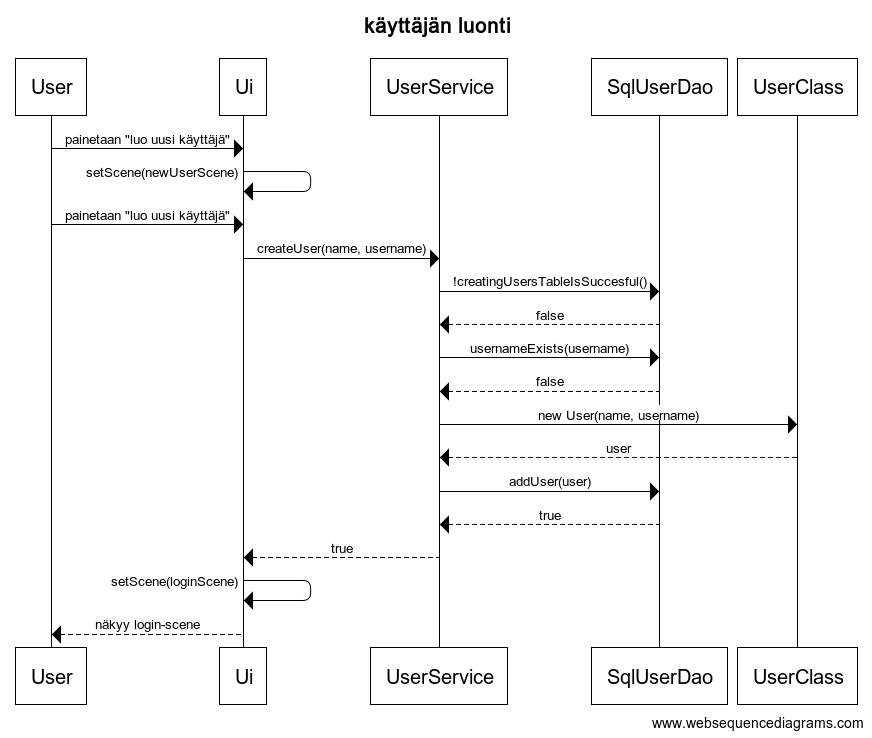
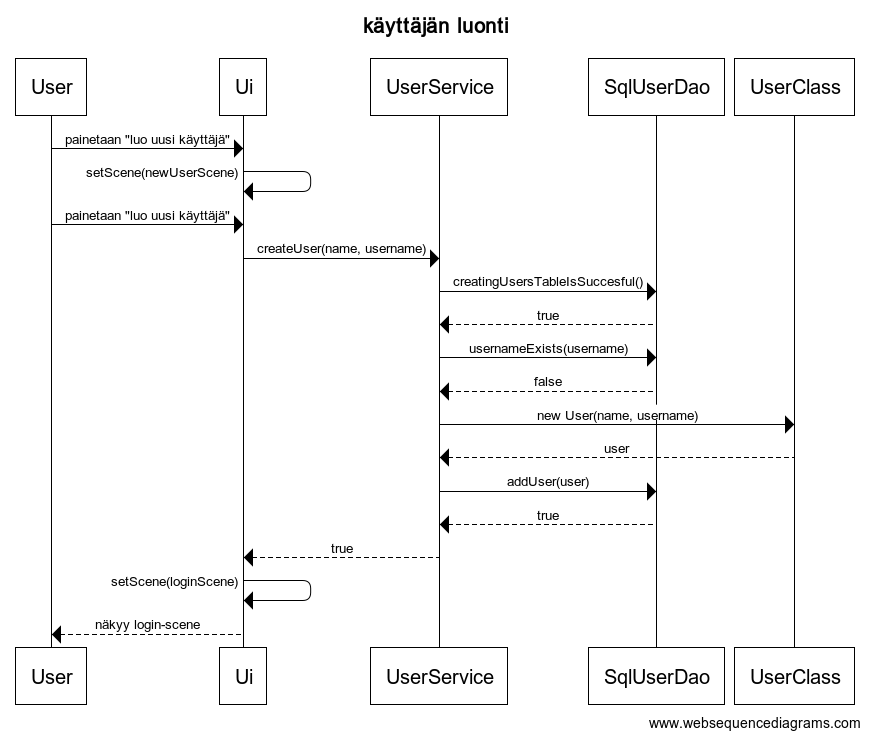
Refaktooritu koodia ja täydennetty dokumentaatiota

diff --git a/Opintorekisteri/src/main/java/opintorekisteri/ui/StudyRegisterUi.java b/Opintorekisteri/src/main/java/opintorekisteri/ui/StudyRegisterUi.java
@@ -475,30 +475,6 @@ public class StudyRegisterUi extends Application{
        });
        
        addCourseButton.setOnAction((ActionEvent e) -> {
-//           String courseName = courseNameInput.getText();
-//           String courseCredits = courseCreditsInput.getText();
-//           boolean added = false;
-//           try {
-//               added = courseService.createCourse(courseName, courseCredits, userService.getLoggedUser());
-//           } catch (SQLException ex) {
-//               Logger.getLogger(StudyRegisterUi.class.getName()).log(Level.SEVERE, null, ex);
-//           }
-//           if (added) {
-//               try {
-//                    refreshData(userService.getLoggedUser());
-//               } catch (SQLException ex) {
-//                   Logger.getLogger(StudyRegisterUi.class.getName()).log(Level.SEVERE, null, ex);
-//               }
-//               courseNameInput.setText("");
-//               courseCreditsInput.setText("");
-//           }
-//           else {
-//               Alert alert = new Alert(AlertType.ERROR);
-//               alert.setTitle("Virhe");
-//               alert.setHeaderText("Kurssin lisäämisessä tapahtui virhe!");
-//               alert.setContentText("Mahdollisia virhetilanteita:\nKurssi on jo olemassa\ntila täynnä\nvirhe syötteessä");
-//               alert.showAndWait();
-//           }
           stage.setScene(courseScene);  
        });
        

diff --git a/Opintorekisteri/src/main/java/opintorekisteri/domain/UserService.java b/Opintorekisteri/src/main/java/opintorekisteri/domain/UserService.java
@@ -28,6 +28,17 @@ public class UserService {
     
     
     /**
+     * Konstruktori jolla on argumenttina Dao-luokat.
+     * @param userDao SqlUserDao-luokan olio
+     * @param courseDao SqlCourseDao-luokan olio
+     */
+    public UserService(SqlUserDao userDao, SqlCourseDao courseDao) {
+        this.userDao = userDao;
+        this.courseDao = courseDao;
+    }
+    
+    
+    /**
      * Funktio joka luo uuden käyttäjän sovellukseen.
      * @param username Käyttäjän käyttäjätunnus
      * @param name Käyttäjän oikea nimi
@@ -36,14 +47,14 @@ public class UserService {
      */
     public boolean createUser(String name, String username) throws SQLException {
         userDao = new SqlUserDao();
-        if (!userDao.creatingUsersTableIsSuccesful()) {
-            return false;
+        if (userDao.creatingUsersTableIsSuccesful()) {
+            if (userDao.usernameExists(username)) {
+                return false;
+            }
+            User user = new User(name, username);
+            return userDao.addUser(user);
         }
-        if (userDao.usernameExists(username)) {
-            return false;
-        }               
-        User user = new User(name, username);
-        return userDao.addUser(user);
+        return false;
     }
     
     

diff --git a/Opintorekisteri/src/main/java/opintorekisteri/domain/CourseService.java b/Opintorekisteri/src/main/java/opintorekisteri/domain/CourseService.java
@@ -137,7 +137,7 @@ public class CourseService {
     
     /**
      * Funktio joka poistaa kurssin nimen perusteella.Nimen perusteella poisto on tässä yhteydessä turvallista, koska nimi on yksilöivä.Ei saa siis tällä hetkellä olla kahta samannimistä kurssia.
-     * @param course Kurssi joka poistetaan.
+     * @param course Kurssi joka poistetaan
      * @return True jos poisto onnistui ja muuten false
      * @throws SQLException Poikkeuskäsittely
      */

diff --git a/dokumentaatio/arkkitehtuuri.md b/dokumentaatio/arkkitehtuuri.md
@@ -35,8 +35,8 @@ Lisäksi toiminnallisista kokonaisuuksita vastaa käyttäjän puolella luokka *U
 käyttäjän luominen ja kirjautumiseen liittyvät toiminnot. *CourseService*-luokan vastuulla on taas kaikki kursseihin liittyvä logiikka kuten kurssin luominen, poisto ja epäaktivointi.  
 
 ## Tietojen pysyväistallennus
-Pakkauksen *opintorekisteri.dao* luokat *SqlUserDao* ja *SqlCourseDao* huolehtivat tietojen tallentamisesta tietokantaan. Käytössä on *SQLite3*-tietokanta, jossa on käytössä kaksi taulua. Tietokannan skeema
-on [seuraavanlainen](kuvat/ot-ht-schema.pdf)  
+Pakkauksen *opintorekisteri.dao* luokat *SqlUserDao* ja *SqlCourseDao* huolehtivat tietojen tallentamisesta tietokantaan. Käytössä on *SQLite3*-tietokanta, jossa on käytössä kaksi taulua ja tietokannan skeema
+on [seuraavanlainen](kuvat/ot-ht-schema.pdf).  
 
 Eli yksittäinen kurssi on liitetty yksittäiseen käyttäjään käyttäjätunnuksen perusteella ja käyttäjätunnus täytyy olla uniikki jokaiselle käyttäjälle. Kursseja voi olla useita kappaleita yhtä käyttäjää kohden.  
 
@@ -48,30 +48,76 @@ Seuraavaksi kuvataan ohjelman päätoiminnallisuuksia sekvenssikaavioina.
 #### Käyttäjän luonti
 
 ![Käyttäjän luonti](kuvat/kayttajan_luonti.png)  
-Kaavio joka kuvaa uuden käyttäjän luomista onnistuneesti. Kun käyttäjä painaa "luo uusi käyttäjä"-painiketta login-scenessä, vaihtuu scene  newUser-sceneen. Tämän jälkeen kun uuden käyttäjän tiedot on syötetty ja painetaan "luo uusi käyttäjä"-painiketta, käyttöliittymä kutsuu UserService-luokan createUser()-metodia. UserService-luokka taas kutsuu SqlUserDao-luokan metodeja. Ensiksi katsotaan, että onhan tietokanta olemassa, jonka jälkeen katsotaan että eihän käyttäjätunnus ole varattu jota yritetään luoda. Jos edellä mainitut askeleet ovat OK, luodaan uusi User-olio ja sitten lisätään se SqlUserDao-luokan välityksellä tietokantaan. Sitten palataan takaisin käyttöliittymään jossa scene vaihtuu jälleen newUser-scenestä login-sceneen.
+
+Kaavio joka kuvaa uuden käyttäjän luomista onnistuneesti. Kun käyttäjä painaa "luo uusi käyttäjä"-painiketta login-scenessä, vaihtuu scene  newUser-sceneen. Tämän jälkeen kun uuden käyttäjän tiedot on syötetty
+
+ ja painetaan "luo uusi käyttäjä"-painiketta, käyttöliittymä kutsuu UserService-luokan createUser()-metodia. UserService-luokka taas kutsuu SqlUserDao-luokan metodeja. Ensiksi katsotaan, että tietokanta on 
+
+olemassa, jonka jälkeen katsotaan ettei käyttäjätunnus ole varattu jonka nimistä yritetään luoda. Jos edellä mainitut askeleet ovat OK, luodaan uusi User-olio ja sitten lisätään se SqlUserDao-luokan 
+
+välityksellä tietokantaan. Sitten palataan takaisin käyttöliittymään jossa scene vaihtuu jälleen newUser-scenestä login-sceneen.
 
 ### Käyttäjän kirjautuminen
 
 ![Kirjautuminen](kuvat/Kirjautuminen.png)  
-Kaavio joka kuvaan käyttäjän kirjautumista sovellukseen onnistuneesti. Kun painetaan "kirjaudu"-painiketta, UserService-luokka pyytää SqlUserDao-luokkaa tarkastamaan, että tietokanta on olemassa ja jos on niin sitten katsotaan onko käyttäjätunnus on olemassa. Sen jälkeen luodaan tiedoista uusi User-olio, jotta saadaan loggedIn-muuttujaan oikea käyttäjä. Sen jälkeen näkymä vaihtuu loginScenestä mainSceneksi. Sen jälkeen suoritetaan refreshdata()-kutsu, missä CourseService hakee SqlCourseDao-luokan avustuksella käyttäjätunnukseen liitetyt aktiiviset ja epäaktiiviset kurssit kirjautuneelle käyttäjälle. Sen jälkeen ne näytetään käyttöliittymän komponenteissa käyttäjälle. Tämän kaiken välissä tapahtuu myös kaikkea pientä, kuten käyttöliittymäkomponenttien luontia ja tekstikenttien tyhjennyksiä. Lisäksi oletetaan, että kaikki tapahtuu oikein, ei tapahdu poikkeuksia tai muuta outoa.  
+
+Kaavio joka kuvaan käyttäjän kirjautumista sovellukseen onnistuneesti. Kun painetaan "kirjaudu"-painiketta, UserService-luokka pyytää SqlUserDao-luokkaa tarkastamaan, että tietokanta on olemassa ja jos on niin
+
+ sitten katsotaan onko käyttäjätunnus on olemassa. Sen jälkeen luodaan tiedoista uusi User-olio, jotta saadaan loggedIn-muuttujaan oikea käyttäjä. Sen jälkeen näkymä vaihtuu loginScenestä mainSceneksi. 
+
+Sen jälkeen suoritetaan refreshdata()-kutsu, missä CourseService hakee SqlCourseDao-luokan avustuksella käyttäjätunnukseen liitetyt aktiiviset ja epäaktiiviset kurssit kirjautuneelle käyttäjälle. 
+
+Sen jälkeen ne näytetään käyttöliittymän komponenteissa käyttäjälle. Tämän kaiken välissä tapahtuu myös kaikkea pientä, kuten käyttöliittymäkomponenttien luontia ja tekstikenttien tyhjennyksiä. Lisäksi 
+
+oletetaan, että kaikki tapahtuu oikein, ei heitetä poikkeuksia tai tapahdu muuta outoa.  
 
 ### Kurssin luonti
 
 ![Kurssin luonti](kuvat/onnistunut_kurssin_luonti.png)  
-Kaavio joka kuvaa uuden kurssin luomista onnistuneesti sovellukseen. Kun painetaan "lisää kurssi"-painiketta tapahtuu suunnilleen seuraavanlainen tapahtumaketju. Käyttöliittymäluokka kutsuu CourseService-luokan createCourse-metodia, jossa on mukana lisättävän kurssin tiedot ja tieto mille käyttäjälle kurssi kuuluu. Sen jälkeen CourseService pyytää SqlCourseDao-luokkaa tarkastamaan, että tietokanta on olemassa ja sen jälkeen suoritetaan CourseService-luokassa kurssin validointi, eli tutkitaan syötteet ja katsotaan, että samalla käyttäjällä ei ole samannimistä aktiivista kurssia. Näiden jälkeen luodaan uus kurssi ja lisätään se tietokantaan ja jälleen päivitetään kirjautuneen käyttäjän data ja näytetään se käyttöliittymässä käyttäjälle.  
+
+Kaavio joka kuvaa uuden kurssin luomista onnistuneesti sovellukseen. Kun painetaan "lisää kurssi"-painiketta tapahtuu suunnilleen seuraavanlainen tapahtumaketju. Käyttöliittymäluokka kutsuu 
+
+CourseService-luokan createCourse-metodia, jossa on mukana lisättävän kurssin tiedot ja tieto mille käyttäjälle kurssi kuuluu. Sen jälkeen CourseService pyytää SqlCourseDao-luokkaa tarkastamaan, että 
+
+tietokanta on olemassa ja sen jälkeen suoritetaan CourseService-luokassa kurssin validointi, eli tutkitaan syötteet ja katsotaan, että samalla käyttäjällä ei ole samannimistä aktiivista kurssia. Näiden 
+
+jälkeen luodaan uus kurssi ja lisätään se tietokantaan ja jälleen päivitetään kirjautuneen käyttäjän data ja näytetään se käyttöliittymässä käyttäjälle.  
 
 ### Kurssin muuttaminen aktiivisesta epäaktiiviseksi
 
 ![Kurssin epäaktivointi](kuvat/epaaktivointi.png)  
-Kaavio joka kuvaa tapahtumaketjua kun muutetaan aktiivisen kurssin status epäaktiiviseksi. Kun painetaan "siirrä kurssi epäaktiiviseksi"-painiketta, tapahtuu suunnilleen seuraavanlainen tapahtumaketju: Haetaan käyttöliittymästä kurssi joka on sillä hetkellä valittuna. Se kurssi välitetään CourseService-luokalle ja sen markCourseAsDone-metodille. Sen jälkeen kutsutaan kurssi-olion omaa setUnactive()-metodia. Tämän jäkeen kutsutaan SqlCourseDao-luokan changeActiveToUnactive joka hoitaa tietokannan puolelta samat operaatiot, eli muuttaa statuksen aktiivisesta epäaktiiviseksi. Tämän jälkeen palataan takaisin käyttöliittymään, jossa suoritetaan muutamia operaatioita kuten poistetaan toisesta käyttöliittymäkomponentista valittu kurssi ja lisätään se toiseen.  
+
+Kaavio joka kuvaa tapahtumaketjua kun muutetaan aktiivisen kurssin status epäaktiiviseksi. Kun painetaan "siirrä kurssi epäaktiiviseksi"-painiketta, tapahtuu suunnilleen seuraavanlainen tapahtumaketju: 
+
+Haetaan käyttöliittymästä kurssi joka on sillä hetkellä valittuna. Se kurssi välitetään CourseService-luokalle ja sen markCourseAsDone-metodille. Sen jälkeen kutsutaan kurssi-olion omaa setUnactive()-metodia.
+
+ Tämän jäkeen kutsutaan SqlCourseDao-luokan changeActiveToUnactive joka hoitaa tietokannan puolelta samat operaatiot, eli muuttaa statuksen aktiivisesta epäaktiiviseksi. Tämän jälkeen palataan takaisin 
+
+käyttöliittymään, jossa suoritetaan muutamia operaatioita kuten poistetaan toisesta käyttöliittymäkomponentista valittu kurssi ja lisätään se toiseen.  
 
 ### Kurssin poistaminen
 
 ![Kurssin poisto](kuvat/poisto.png)  
-Kaavio joka kuvaa kun poistetaan sovelluksesta kurssi onnistuneesti. Kun painetaan "poista kurssi"-painiketta, käyttöliittymä hakee valitun Course-olion, välittää tiedon siitä CourseServicen deleteCourse-metodille joka taas välittää tiedon SqlCourseDao-luokan deleteCourse-metodille. Sitten palataan takaisin käyttöliittymään, jossa päivitetään käyttöliittymän näkymää käyttäjälle.  
+
+Kaavio joka kuvaa kun poistetaan sovelluksesta kurssi onnistuneesti. Kun painetaan "poista kurssi"-painiketta, käyttöliittymä hakee valitun Course-olion, välittää tiedon siitä CourseServicen 
+
+deleteCourse-metodille joka taas välittää tiedon SqlCourseDao-luokan deleteCourse-metodille. Sitten palataan takaisin käyttöliittymään, jossa päivitetään käyttöliittymän näkymää käyttäjälle.  
 
 ## Ohjelman rakenteeseen jääneet heikkoudet  
 
 ## Käyttöliittymä  
 
-## Dao-luokat 
+Kaikki käyttöliittymän rakentava koodi on määritelty metodin *start*-sisällä. Tätä voisi refaktoroida esimerkiksi toteuttamalla jokaisen eri  näkymän eli scenen luonti oman funktion sisään. Lisäksi näkymässä, 
+
+jossa käyttäjä voi tutkia aktiivisia ja epäaktiivisia kurssejaan, olevat *Tableview*-komponentit voisi luoda jotenkin järkevämmin. Ne ovat melko *copy-paste*-menetelmällä tehdyt toistaiseksi. 
+
+## DAO-luokat  
+
+DAO-luokkia voisi refaktoroida jonkin verran, kuten esimerkiksi käyttämällä rajapintoja, jotta sovelluksen laajennettavuus ja testaaminen helpottuisi. Lisäksi koodi on jonkin verran toisteista ja noudattaa 
+samaa kaavaa:
+* Luo yhteys
+  * jos null, palauta false
+* kysely
+  * jos poikkeus, palauta false
+* palauta kyselyn tulos
+Voisi miettiä voisiko näitä jotenkin refaktoroida.
